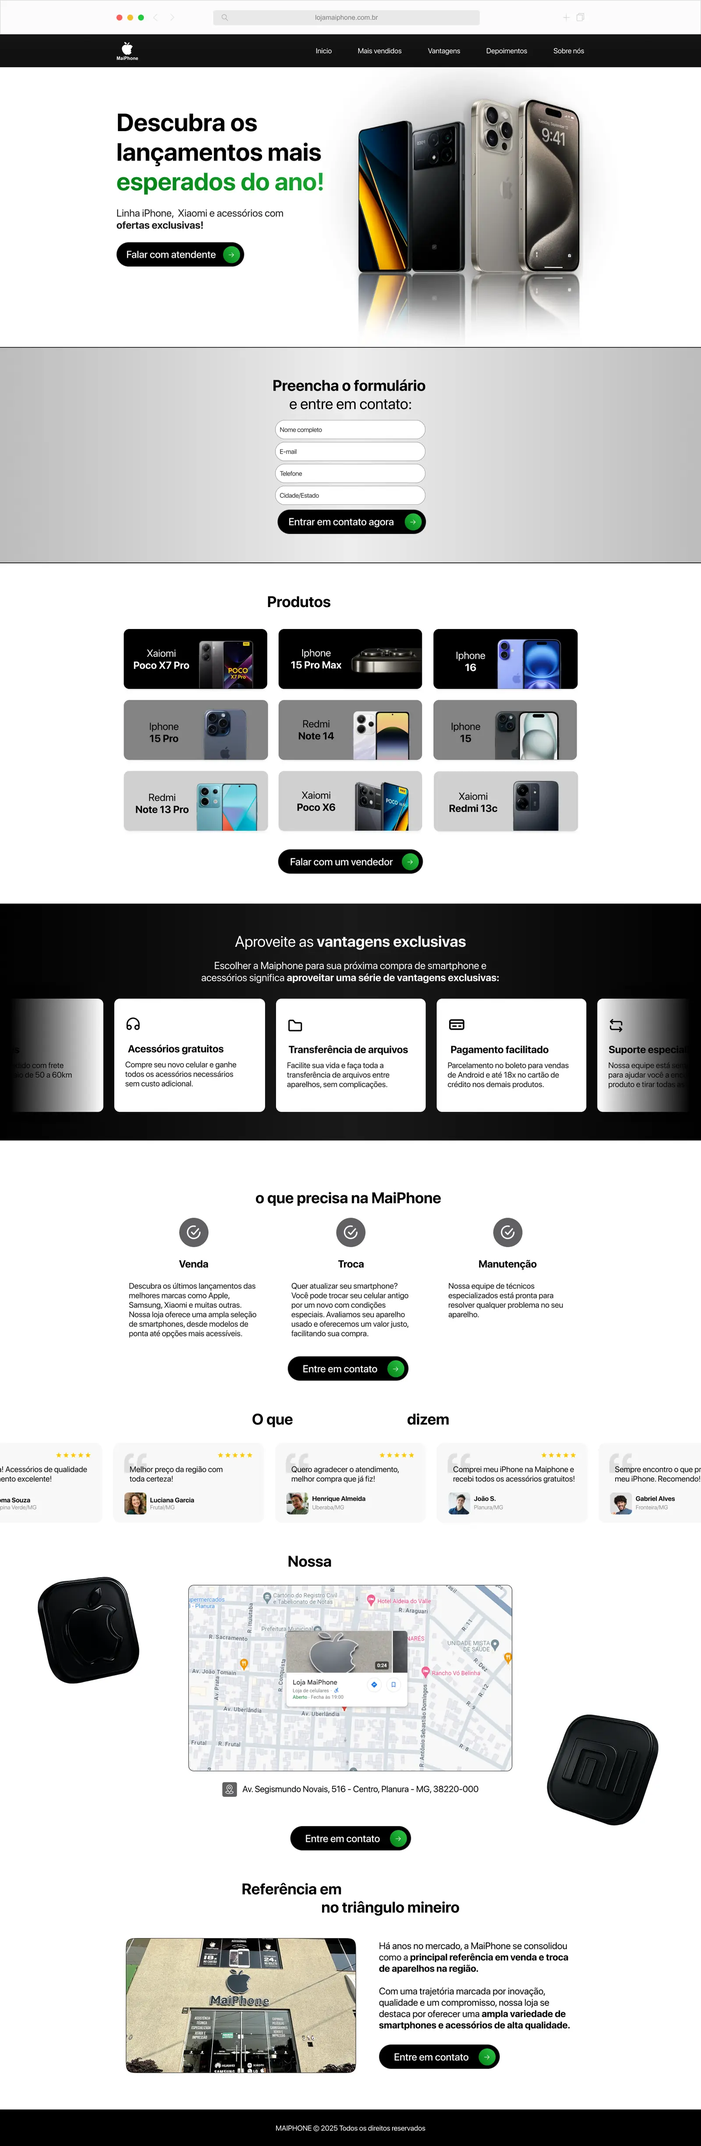
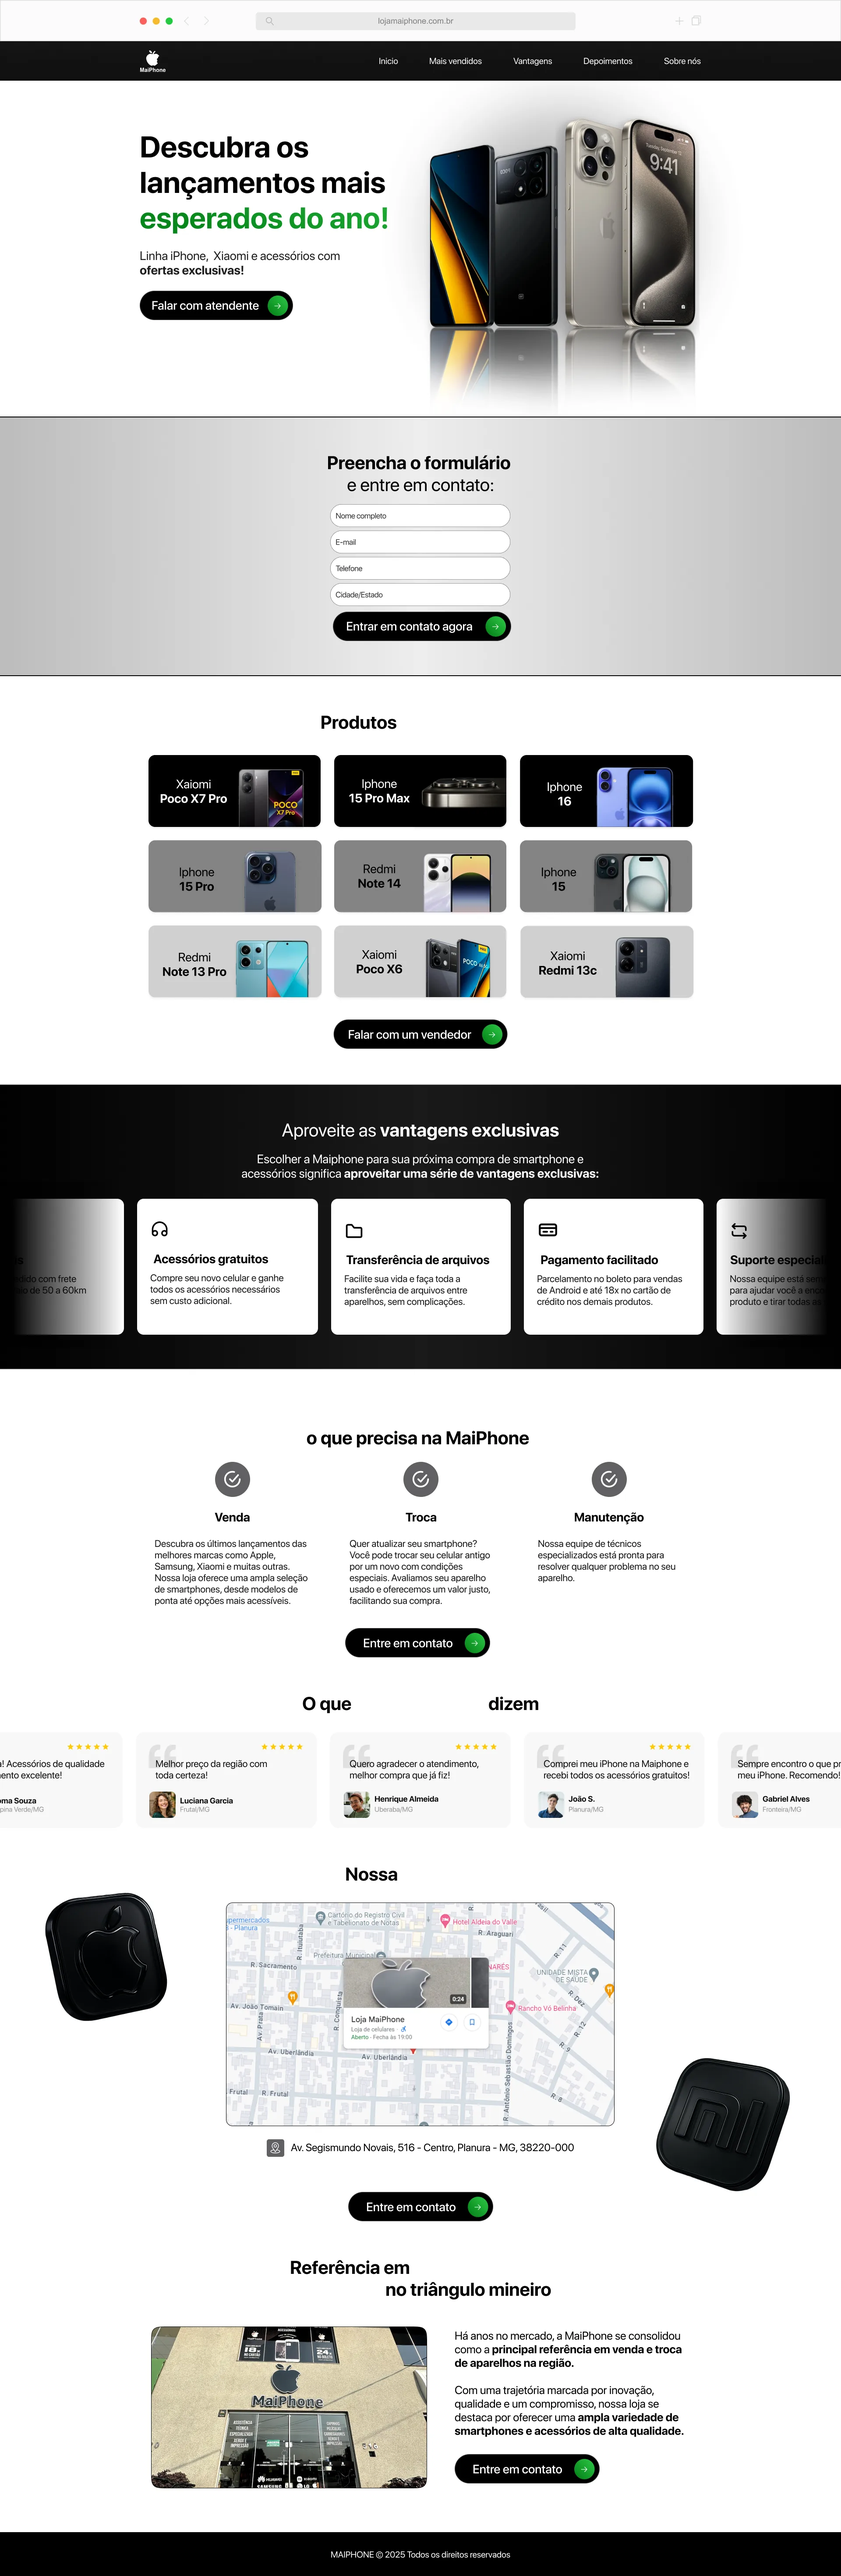
case: serve images at full 1920px so Retina screens stop upscaling

diff --git a/trabalho/loja-maiphone/index.html b/trabalho/loja-maiphone/index.html
@@ -835,7 +835,7 @@
   </section>
 
   <figure class="case-figure">
-    <img src="midia/capa.webp" width="1600" height="900" alt="Página inicial da MaiPhone apresentada em um notebook sobre fundo escuro" fetchpriority="high" decoding="async">
+    <img src="midia/capa.webp" width="1920" height="1080" alt="Página inicial da MaiPhone apresentada em um notebook sobre fundo escuro" fetchpriority="high" decoding="async">
   </figure>
 
   <div class="case-body">
@@ -860,7 +860,7 @@
       <p>Da primeira impressão ao contato, cada seção organiza a oferta e mantém o foco nos produtos e serviços da MaiPhone.</p>
     </div>
     <figure class="case-figure">
-      <img src="midia/pagina-completa.webp" width="1600" height="4896" alt="Página desktop completa desenvolvida para a MaiPhone" loading="lazy" decoding="async">
+      <img src="midia/pagina-completa.webp" width="1920" height="5875" alt="Página desktop completa desenvolvida para a MaiPhone" loading="lazy" decoding="async">
     </figure>
   </section>
 
